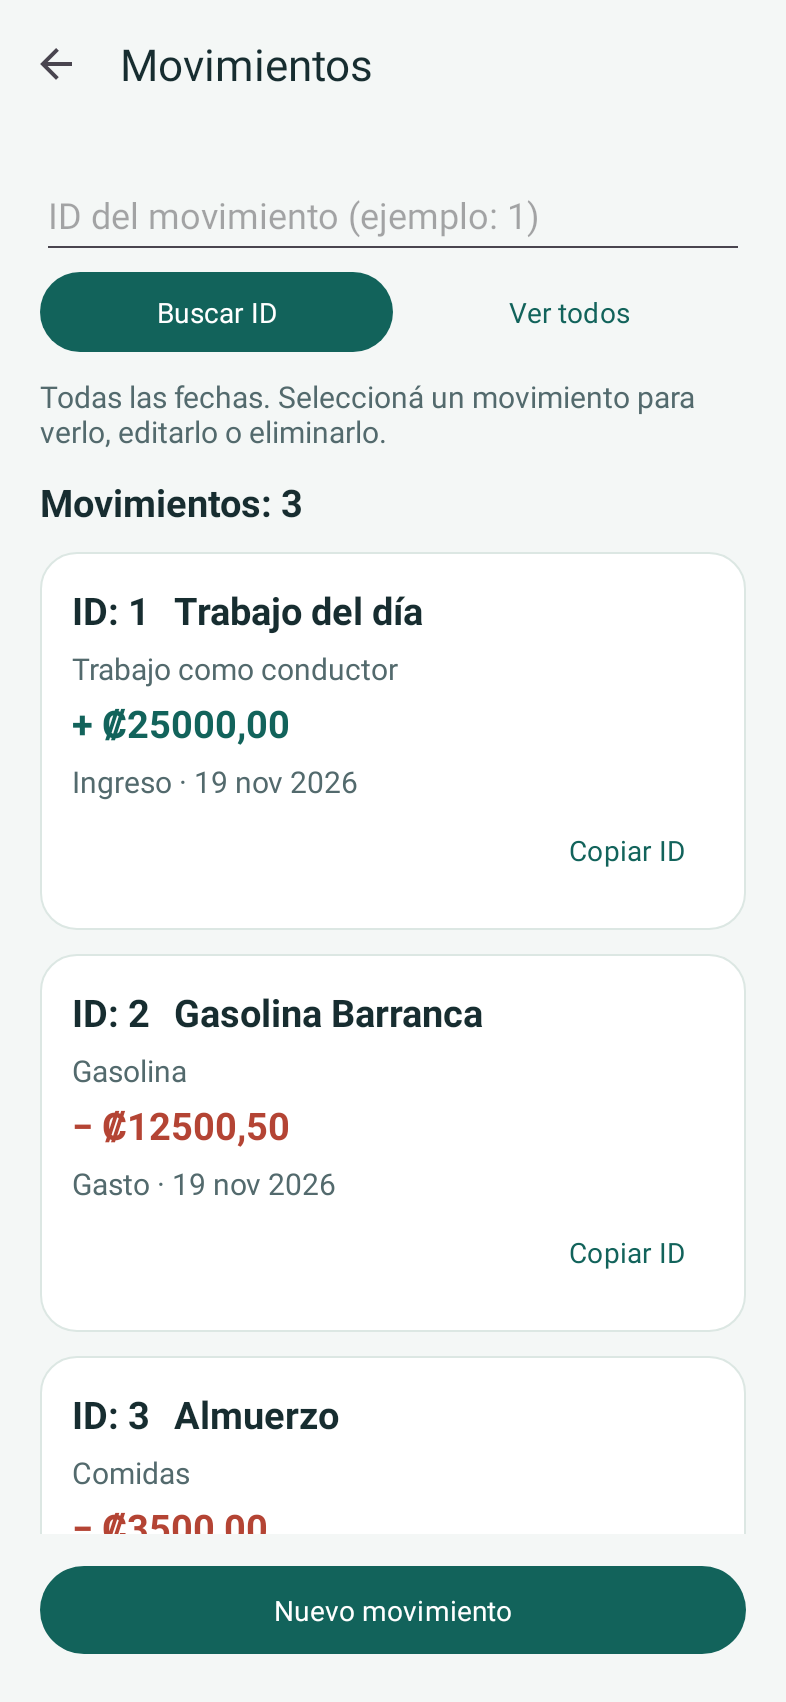
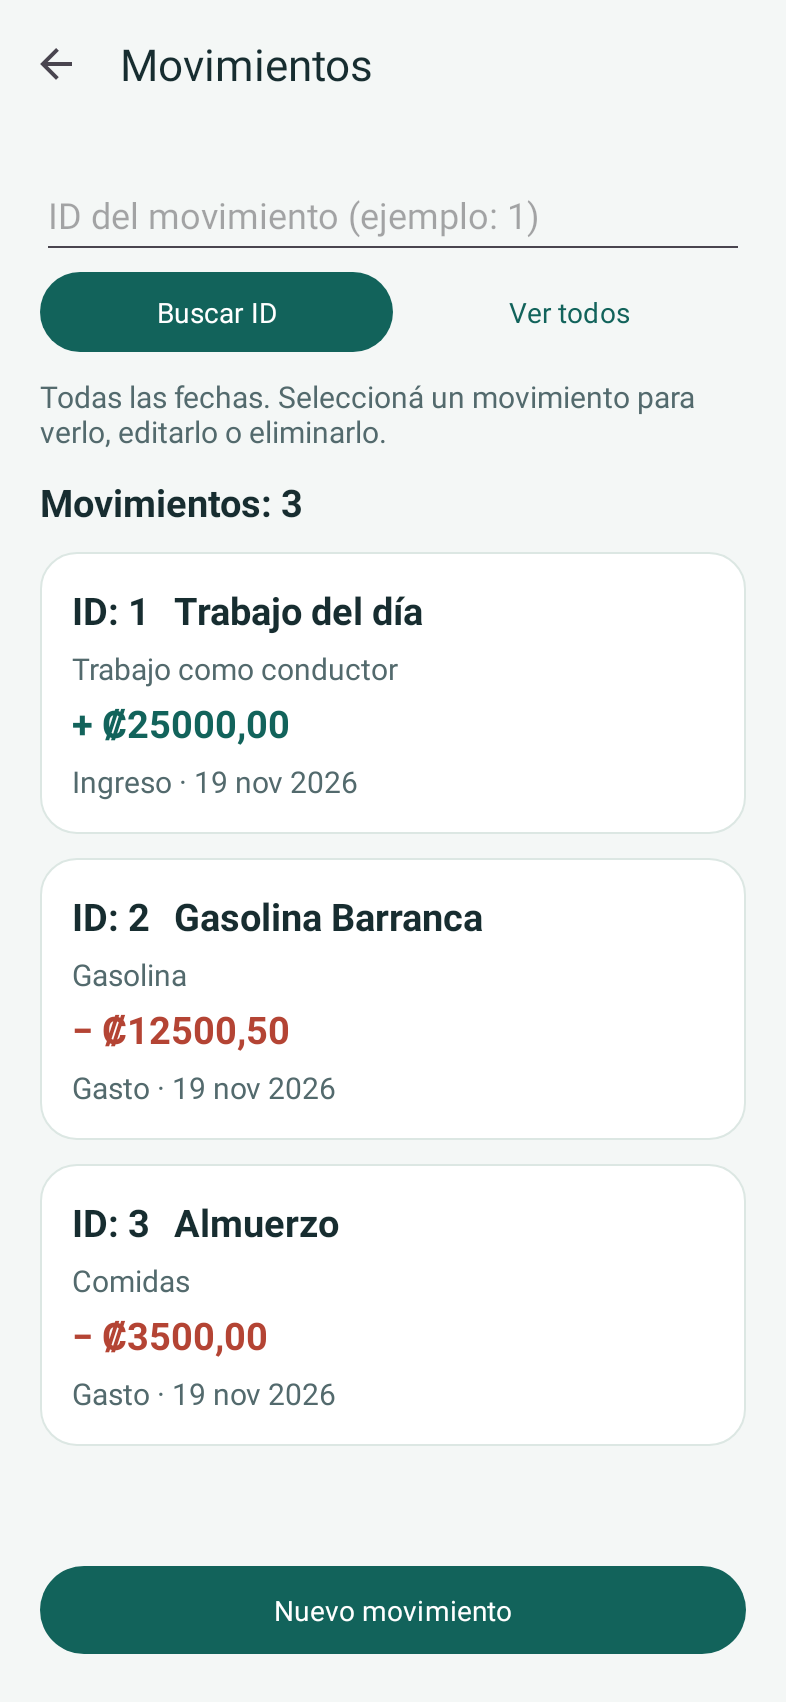
Keep task 5 within classroom tools and JUnit validation

Changed region(s): [[0.0916, 0.5294, 0.6107, 0.9031], [0.7328, 0.7162, 0.855, 0.7474], [0.7328, 0.4982, 0.8244, 0.5294]]

diff --git a/app/src/main/java/com/marioespinoza/mibalance/ui/TransactionListAdapter.kt b/app/src/main/java/com/marioespinoza/mibalance/ui/TransactionListAdapter.kt
@@ -1,14 +1,9 @@
 package com.marioespinoza.mibalance.ui
 
-import android.content.ClipData
-import android.content.ClipboardManager
-import android.content.Context
 import android.view.LayoutInflater
 import android.view.View
 import android.view.ViewGroup
 import android.widget.TextView
-import android.widget.Button
-import android.widget.Toast
 import androidx.core.content.ContextCompat
 import androidx.recyclerview.widget.RecyclerView
 import com.marioespinoza.mibalance.R
@@ -33,7 +28,6 @@ class TransactionListAdapter(
         val meta: TextView = view.findViewById(R.id.meta)
         val description: TextView = view.findViewById(R.id.description)
         val transactionId: TextView = view.findViewById(R.id.transactionId)
-        val copyId: Button = view.findViewById(R.id.copyId)
     }
 
     override fun onCreateViewHolder(parent: ViewGroup, viewType: Int): TransactionHolder {
@@ -60,11 +54,6 @@ class TransactionListAdapter(
         holder.meta.text = context.getString(R.string.transaction_meta, type, date)
         holder.description.text = transaction.description.ifBlank { context.getString(transaction.category.labelRes) }
         holder.transactionId.text = context.getString(R.string.transaction_id_value, transaction.id)
-        holder.copyId.setOnClickListener {
-            val clipboard = context.getSystemService(Context.CLIPBOARD_SERVICE) as ClipboardManager
-            clipboard.setPrimaryClip(ClipData.newPlainText(context.getString(R.string.copy_id), transaction.id))
-            Toast.makeText(context, R.string.id_copied, Toast.LENGTH_SHORT).show()
-        }
         holder.itemView.setOnClickListener { listener.onTransactionClick(transaction) }
     }
 }

diff --git a/README.md b/README.md
@@ -13,7 +13,7 @@ Organicé el manejo de los ingresos y gastos alrededor de la pantalla **Movimien
 - Agregué un botón **Movimientos** en el inicio y en el formulario.
 - La lista muestra todos los movimientos registrados, de todas las fechas, ordenados por ID.
 - Cambié los identificadores largos por números consecutivos: **1, 2, 3…**. Los ingresos y los gastos comparten la misma secuencia.
-- Cada fila muestra **ID y nombre**, categoría, monto, tipo y fecha. También tiene la opción **Copiar ID**.
+- Cada fila muestra **ID y nombre**, categoría, monto, tipo y fecha.
 - Coloqué **Buscar ID** arriba de la lista. La búsqueda es exacta: buscar `1` muestra el movimiento 1, no el 10 ni el 11. **Ver todos** restaura la lista completa.
 - Al seleccionar una fila puedo abrir su detalle y entrar a editar o eliminar.
 - Al guardar un movimiento nuevo o una actualización, regreso a Movimientos.
@@ -35,7 +35,7 @@ El botón **Nuevo movimiento** permite registrar otro ingreso o gasto. La búsqu
 
 ## Pantallas actuales de la Tarea 5
 
-Las siguientes imágenes fueron **renderizadas desde los layouts y el código actuales con Robolectric, Android API 28**, usando datos ficticios. Los formularios y la lista permiten desplazarse. Por separado, probé el flujo actualizado en mi teléfono HONOR y confirmé que funciona como esperaba.
+Las siguientes imágenes fueron **renderizadas externamente desde los layouts y el código actuales en un entorno Android API 28**, usando datos ficticios. El generador de imágenes no forma parte del código ni de las dependencias entregadas. Los formularios y la lista permiten desplazarse. Por separado, probé el flujo actualizado en mi teléfono HONOR y confirmé que funciona como esperaba.
 
 | Resumen mensual | Movimientos: lista con ID y nombre |
 | --- | --- |
@@ -99,6 +99,20 @@ El kilometraje es opcional para gastos del vehículo y los litros son opcionales
 
 Utilicé Kotlin, layouts XML, `findViewById`, `Intent`, `RecyclerView`, `DatePickerDialog` y `AlertDialog`, siguiendo el patrón del proyecto de clase. La aplicación conserva el repositorio en memoria. Los montos se calculan en centésimos con números enteros para conservar los decimales; el formulario admite coma o punto sin separadores de miles.
 
+### Relación con lo visto en clase hasta semana 9
+
+| Herramienta o patrón | Aplicación en MiBalance |
+| --- | --- |
+| Kotlin, modelos y enumeraciones | Movimientos, tipos, categorías y validaciones |
+| Activities y layouts XML con `findViewById` | Inicio, Movimientos, detalle y formulario |
+| `Intent` | Navegación y envío del ID seleccionado |
+| `RecyclerView`, adaptador y listener | Lista y selección de movimientos |
+| Interfaz de repositorio, memoria y ViewModel | Patrón trabajado antes de la integración de Room |
+| `DatePickerDialog` y `AlertDialog` | Fecha y confirmaciones de actualización/eliminación |
+| JUnit | Pruebas de montos, totales, búsqueda y operaciones del repositorio |
+
+Tomé como referencia los ejemplos de [semana 7](https://github.com/utn-app-movil/task-mngr-g1/tree/semana7) y [semana 9](https://github.com/utn-app-movil/task-mngr-g1/tree/semana9). La numeración consecutiva y los cálculos son la lógica propia de mi proyecto, implementada con Kotlin. La entrega conserva estas herramientas sin agregar una biblioteca de pruebas de interfaz ni funciones de portapapeles.
+
 ### Almacenamiento de esta entrega
 
 Los movimientos se comparten entre las pantallas mientras el proceso de la aplicación está activo. **Al finalizar el proceso, se borran los registros y la numeración vuelve a empezar en 1.** Esta versión todavía no utiliza Room ni almacenamiento permanente.
@@ -132,10 +146,10 @@ Para actualizar un clon existente, primero reviso `git status` y luego ejecuto `
 
 ## Pruebas realizadas
 
-- **19 pruebas automatizadas aprobadas:** 11 de JUnit y 8 de Robolectric.
+- **11 pruebas de lógica con JUnit aprobadas**, la herramienta incluida también en el proyecto del profesor.
 - Verifiqué IDs consecutivos, conservación de IDs al editar y eliminación sin reutilizarlos.
 - Probé una lista con 50 movimientos de distintas fechas y la búsqueda exacta por ID.
-- Comprobé confirmación/cancelación, navegación, copia de ID y recreación del formulario.
+- Probé el flujo de consulta, actualización, confirmación/cancelación y eliminación en mi HONOR.
 - **Android Lint:** sin errores; conserva advertencias no bloqueantes.
 - **Compilación del APK:** correcta.
 - **Prueba en mi HONOR:** confirmé que el flujo actualizado funciona como quería.

diff --git a/docs/VALIDATION.md b/docs/VALIDATION.md
@@ -10,7 +10,7 @@ En Linux se usa `./gradlew` con las mismas tareas. La configuración local del S
 
 ## Resultados — 19 de noviembre de 2026
 
-- `testDebugUnitTest`: 19 pruebas aprobadas (11 de JUnit y 8 de Robolectric), sin fallos.
+- `testDebugUnitTest`: 11 pruebas de lógica aprobadas con JUnit, sin fallos.
 - `lintDebug`: completado sin errores; el informe conserva advertencias no bloqueantes.
 - `assembleDebug`: APK generado en `app/build/outputs/apk/debug/app-debug.apk`.
 - `git diff --check`: sin errores de formato.
@@ -20,8 +20,9 @@ En Linux se usa `./gradlew` con las mismas tareas. La configuración local del S
 - Montos, validaciones, categorías, totales y selección mensual del resumen.
 - IDs consecutivos compartidos entre ingresos y gastos; actualización que conserva el ID; eliminación sin reutilizar IDs ni renumerar registros.
 - Lista con 50 movimientos de distintas fechas y búsqueda exacta por ID.
-- Acceso a Movimientos desde inicio y formulario; retorno a la lista al guardar; selección de una fila y apertura del detalle correcto.
-- Confirmar/cancelar actualización y eliminación; recreación de la Activity en modo Nuevo; copia del ID de la fila correcta.
-- Restablecimiento de la lista al volver después de guardar o eliminar un movimiento buscado.
 
 Mario confirmó en su HONOR que el flujo actualizado funciona como esperaba. Ver [MANUAL_TESTS.md](MANUAL_TESTS.md). El repositorio sigue en memoria: finalizar el proceso borra los movimientos y reinicia la secuencia.
+
+## Alcance de clase
+
+Esta revisión entrega únicamente las pruebas JUnit de lógica y las herramientas Android utilizadas en los ejemplos compartidos hasta semana 9. El flujo principal fue confirmado por Mario en su HONOR. Las imágenes del README se renderizaron externamente para la documentación; el generador no es una dependencia de la aplicación.

diff --git a/docs/MANUAL_TESTS.md b/docs/MANUAL_TESTS.md
@@ -11,7 +11,7 @@ Usar datos ficticios. Comprobar el flujo en el HONOR; los mockups son diseños h
 7. Editar el monto a ₡10 000. Cancelar la confirmación: debe conservar ₡12 500,50. Repetir y confirmar: vuelve a Movimientos y conserva ID 2 sin duplicarlo. Volver al resumen: saldo del mes ₡15 000 si el movimiento del año pasado no pertenece al mes actual.
 8. Seleccionar ID 2 y tocar Eliminar. Cancelar: debe permanecer. Confirmar: desaparece. Al regresar, la lista debe mostrar los movimientos restantes aunque se hubiera buscado ese ID.
 9. Crear otro movimiento: debe recibir ID 4. No se debe reutilizar 2 ni cambiar el ID 3. Probar eliminar desde el formulario de edición y desde detalle.
-10. Confirmar que los movimientos recientes del resumen también muestran ID y nombre. Copiar ID debe copiar solo el número y no abrir el detalle; tocar la fila sí lo abre.
+10. Confirmar que los movimientos recientes del resumen también muestran ID y nombre. Tocar una fila debe abrir el detalle de ese ID.
 11. Probar nombre vacío, monto cero o inválido, mantenimiento/reparación sin descripción y litros inválidos: no se deben guardar datos inválidos.
 12. Probar Nuevo movimiento desde edición, girar el teléfono antes de guardar y comprobar que no sobrescribe el movimiento anterior.
 13. Registrar o editar desde la lista después de una búsqueda: al guardar debe volver a mostrar todos los movimientos.

diff --git a/docs/PR_DESCRIPTION.md b/docs/PR_DESCRIPTION.md
@@ -10,3 +10,5 @@ Users can open Transactions from the dashboard or the editor. This screen lists 
 - Task 4 is included as the baseline because it has not been merged into main.
 
 See `docs/VALIDATION.md` for automated results and `docs/MANUAL_TESTS.md` for the physical device checklist. Branch/title: `task5-MarioEspinoza-MiBalance`; base: `main`. Professor reviewer: `ebarahonautn`. Merge only after professor approval; submit the PR URL in campus.
+
+Classroom scope: the delivered app uses Kotlin/XML, Activities, Intent, RecyclerView with a listener, the memory repository/ViewModel pattern, DatePickerDialog, AlertDialog and JUnit. Rendered documentation images are generated externally.
